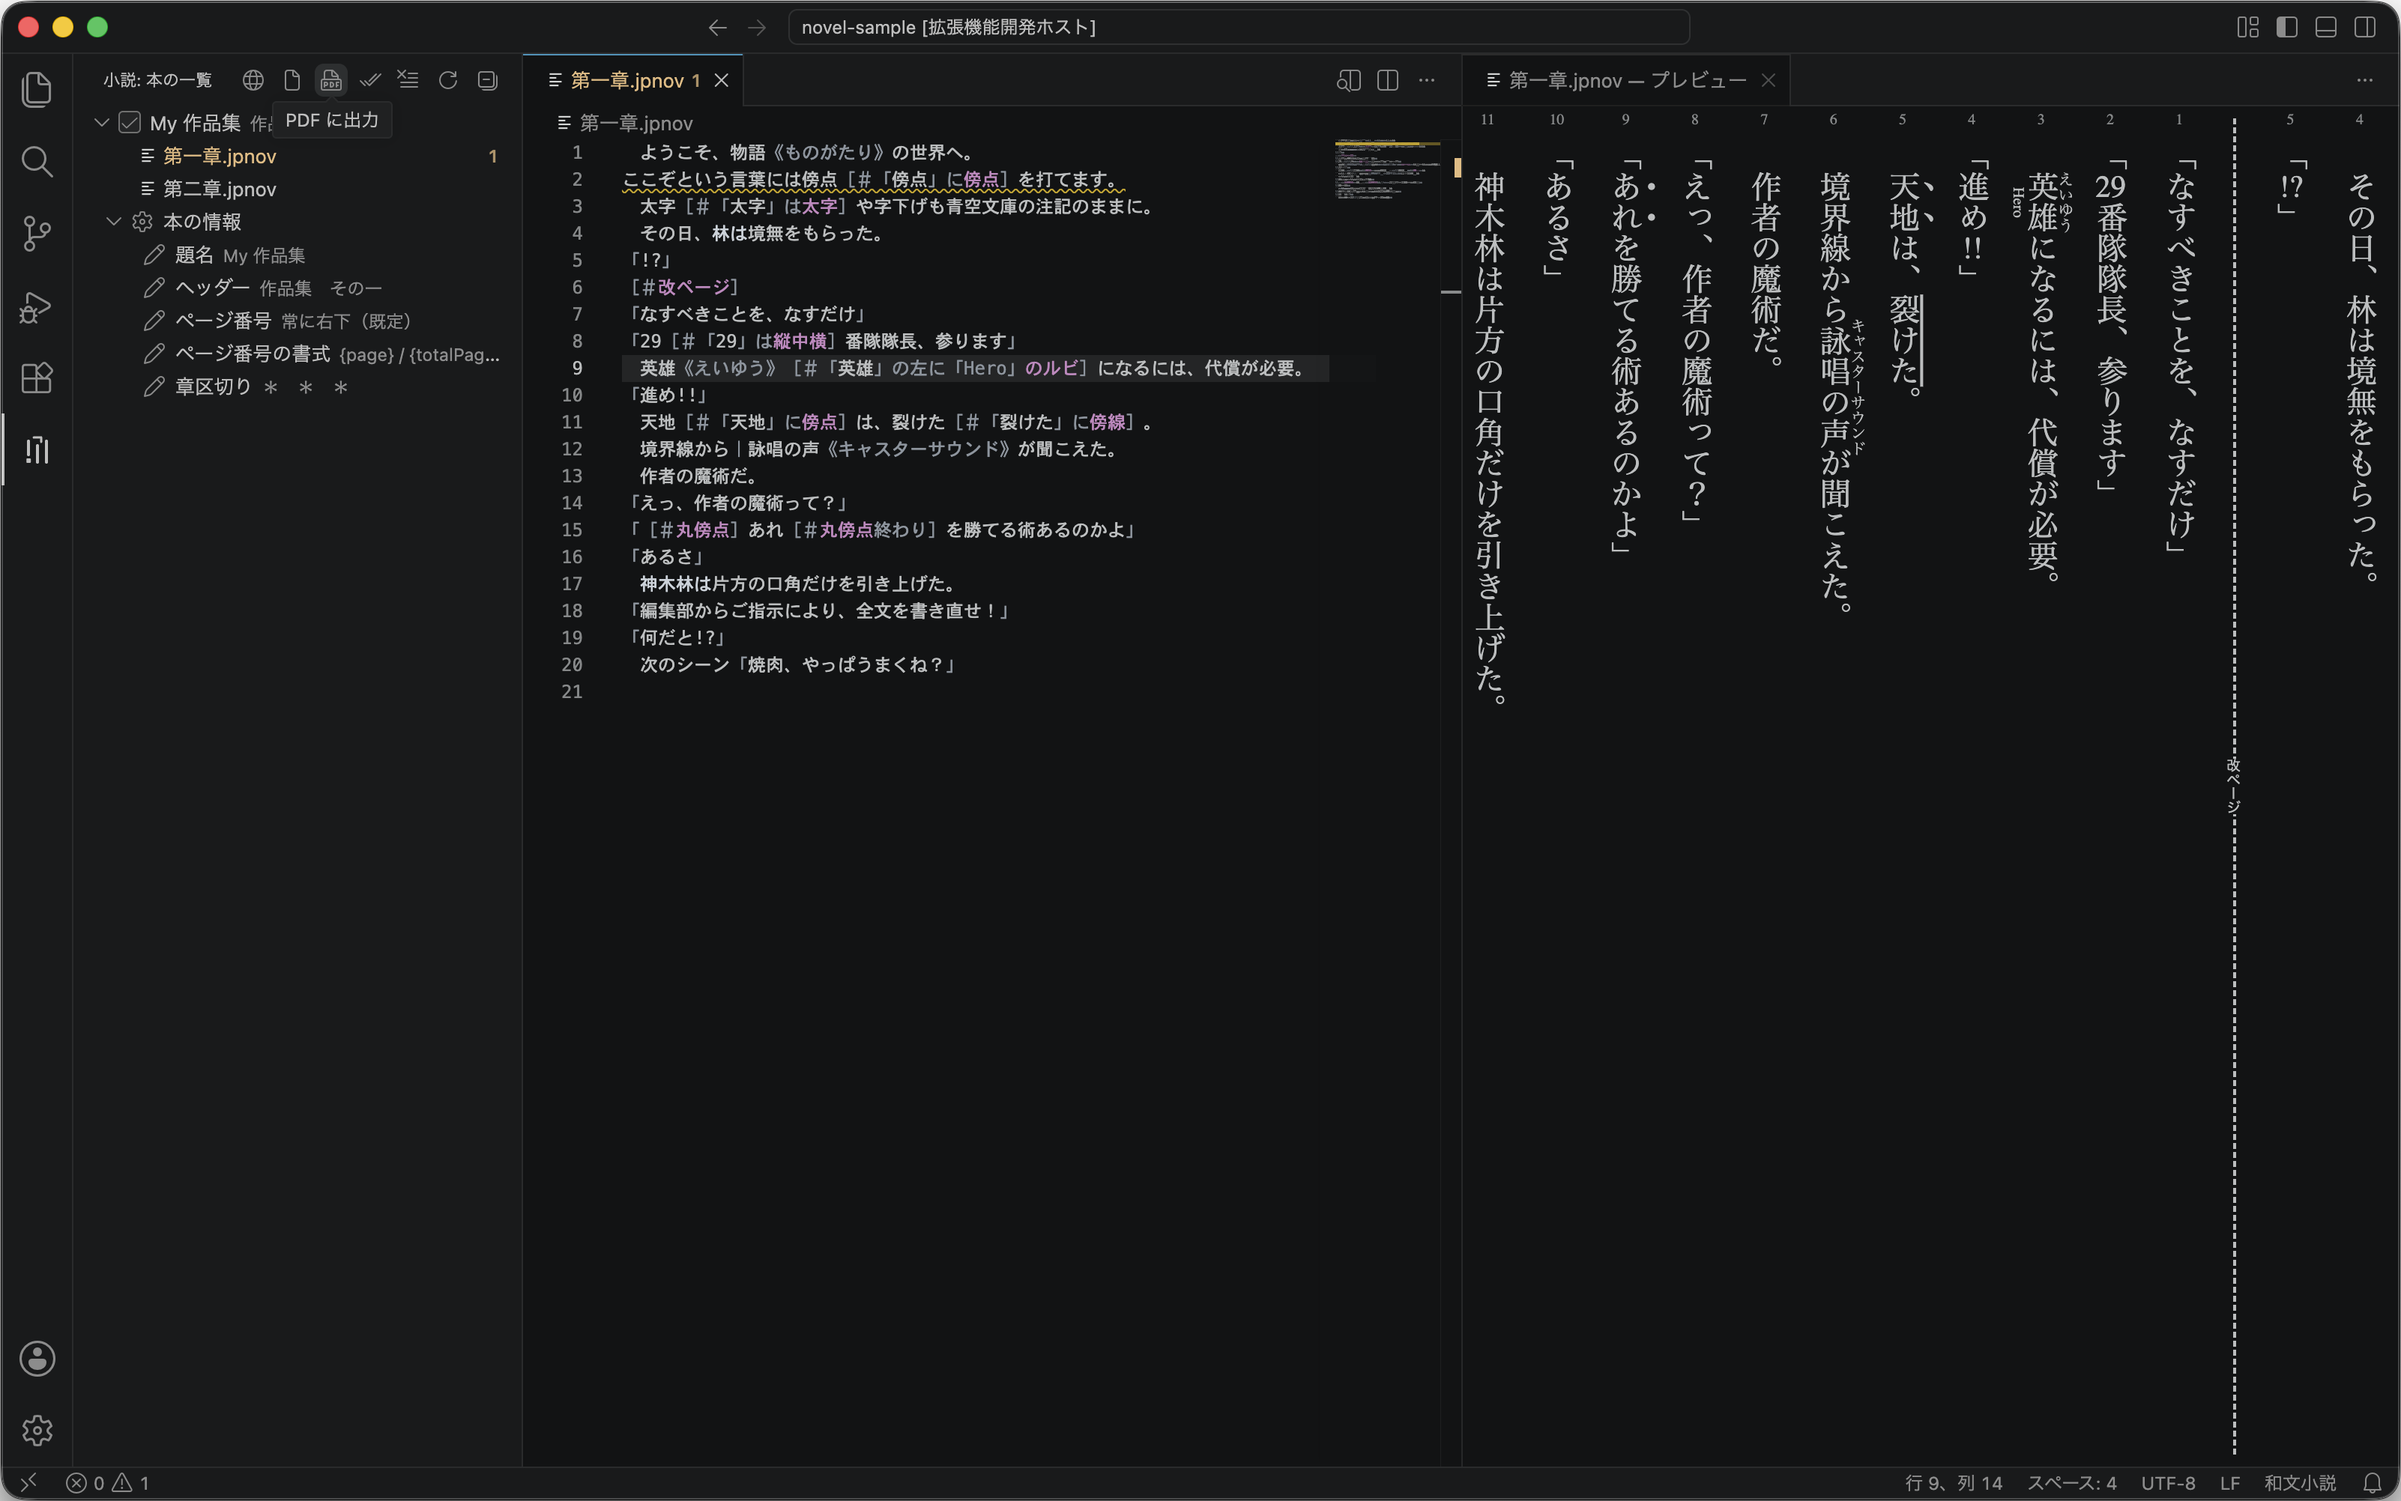
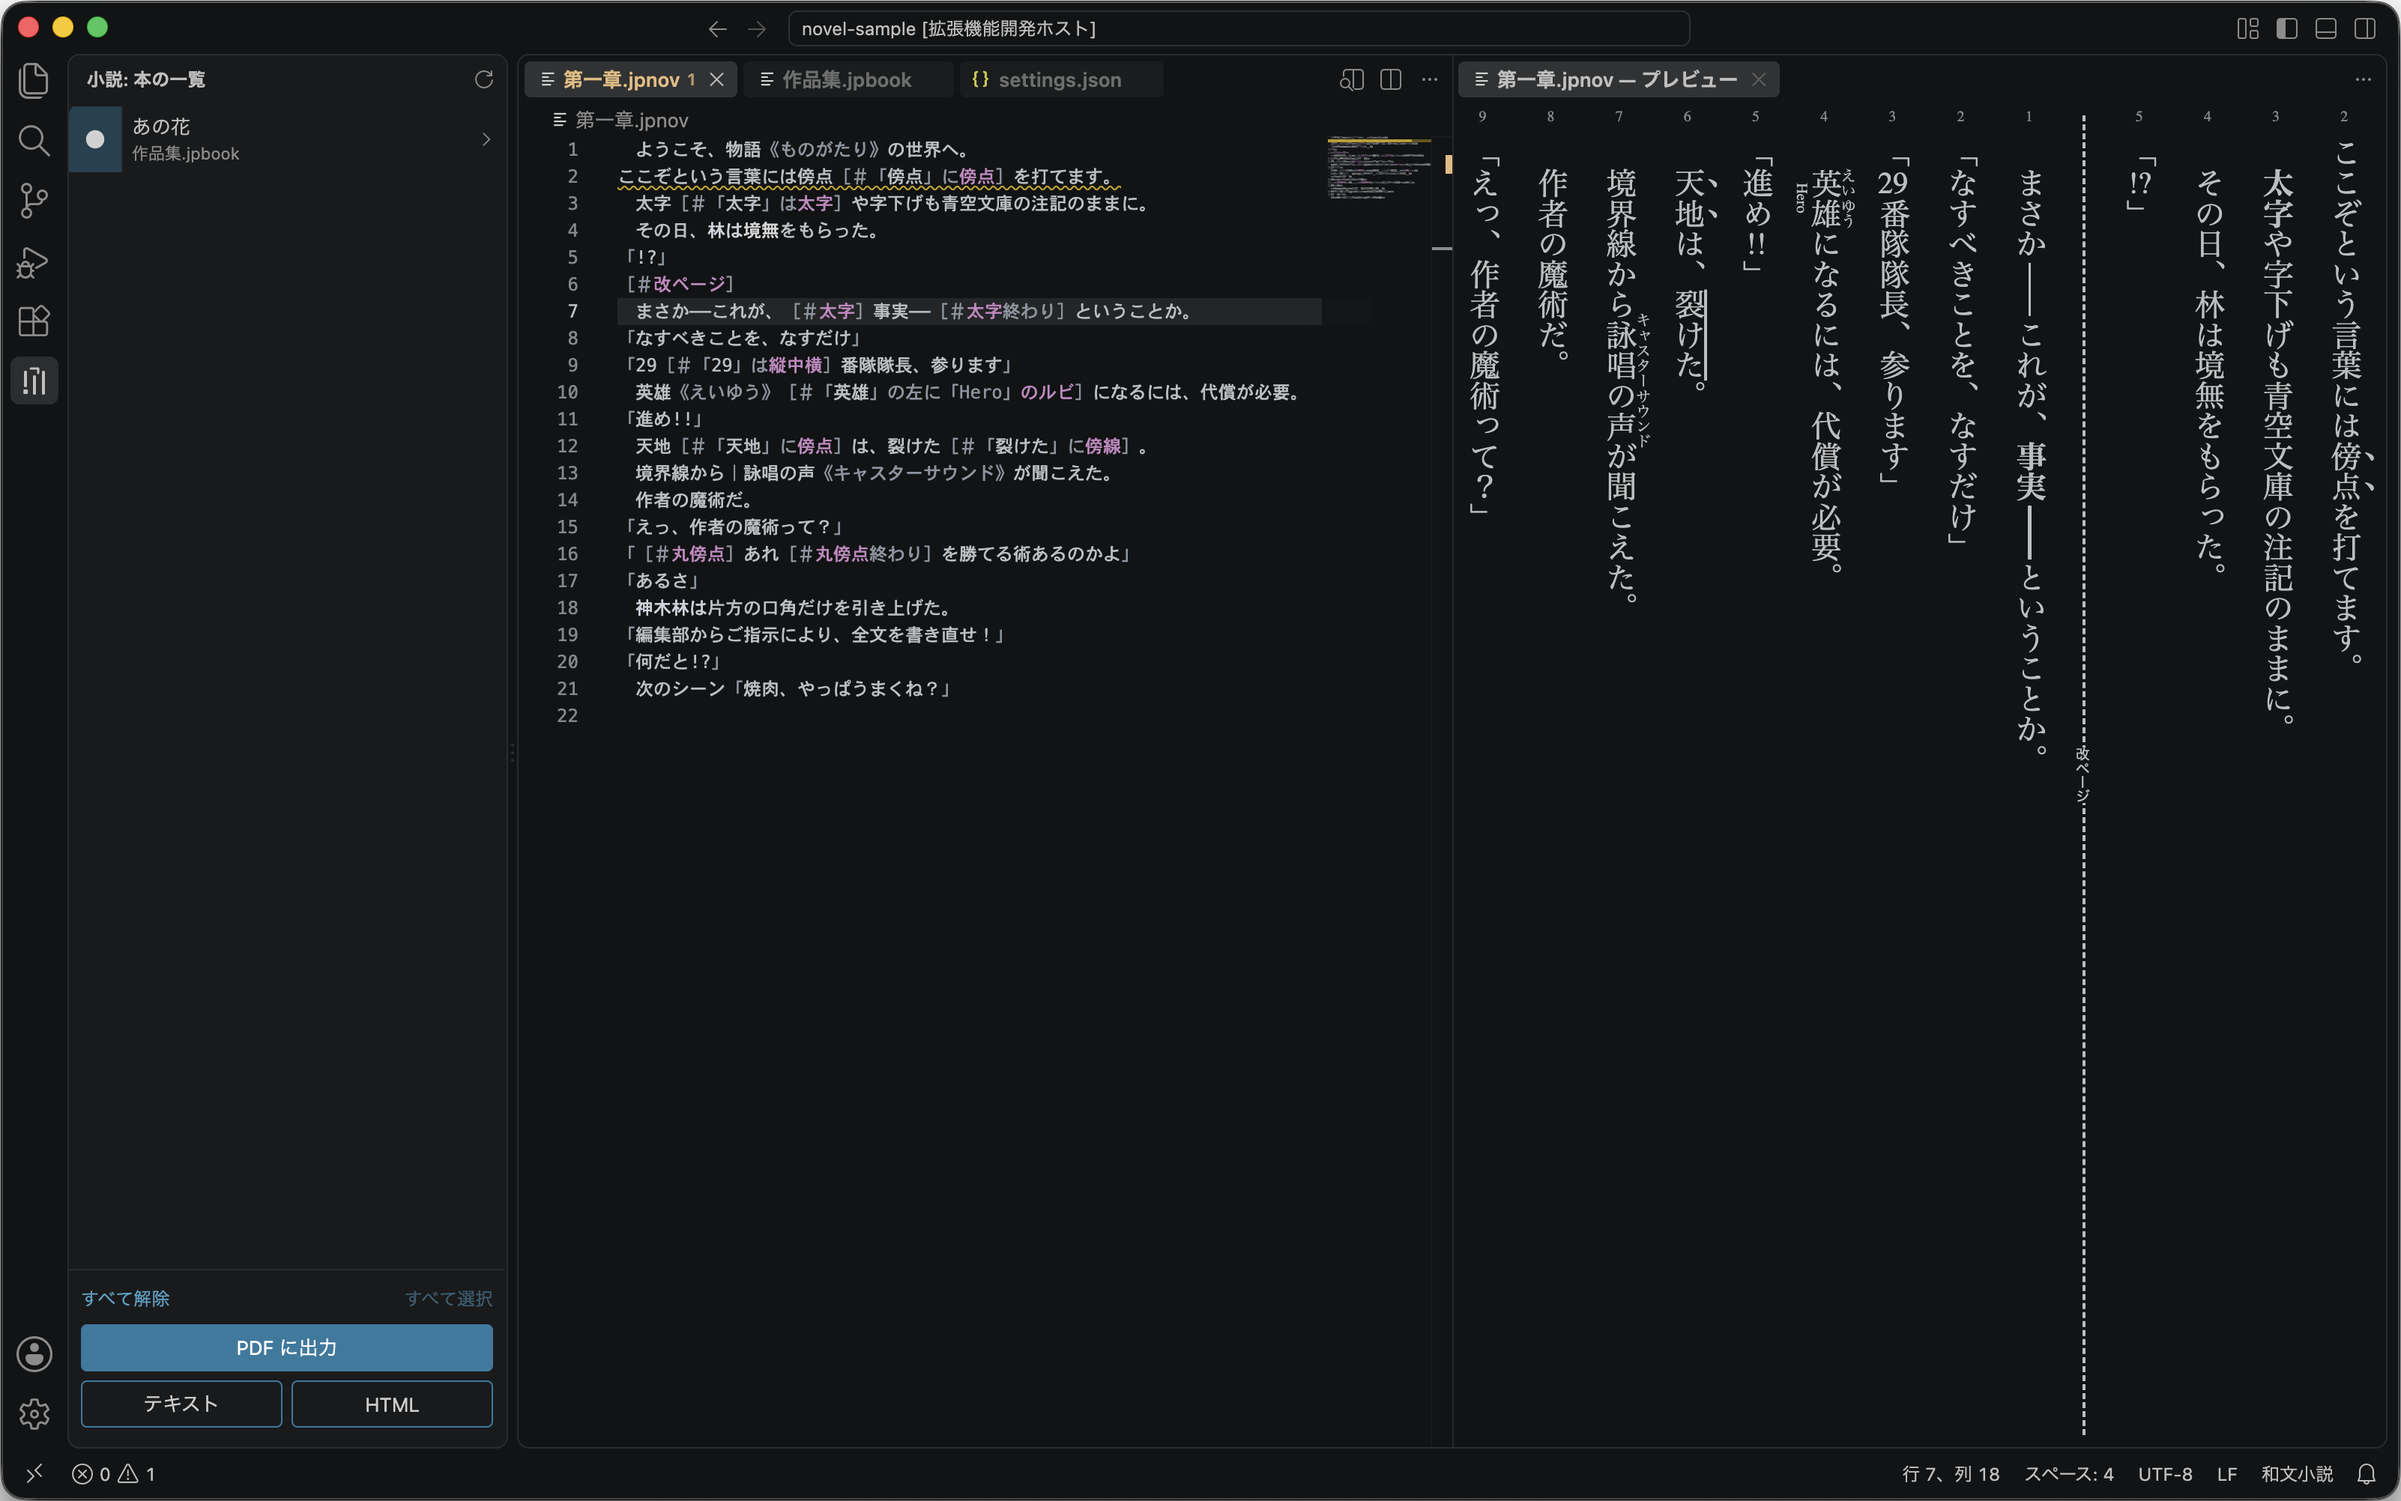
Update docs and version

diff --git a/README.md b/README.md
@@ -73,7 +73,7 @@
    最終章.jpnov
    ```
 
-8. **本にする** — 左端のアクティビティ バーに現れる本のアイコン（小説）を開くと、「本の一覧」に今の `.jpbook` が並んでいます。チェックが入っているのを確かめて、一覧の右上の「PDF に出力」を押せば、フォルダー内の `dist` に印刷用の PDF ができあがります。
+8. **本にする** — 左端のアクティビティ バーに現れる本のアイコン（小説）を開くと、「本の一覧」に今の `.jpbook` が並んでいます。チェックが入っているのを確かめて、一覧の右上の「PDF に出力」を押せば、フォルダー内の `dist` に印刷用の PDF ができあがります。それぞれの本の詳細ページから、その本だけを個別に出力することもできます。
 
 ![「小説」パネルの「本の一覧」「本の情報」と出力ボタン](docs/images/vscode-books-panel.png)
 
